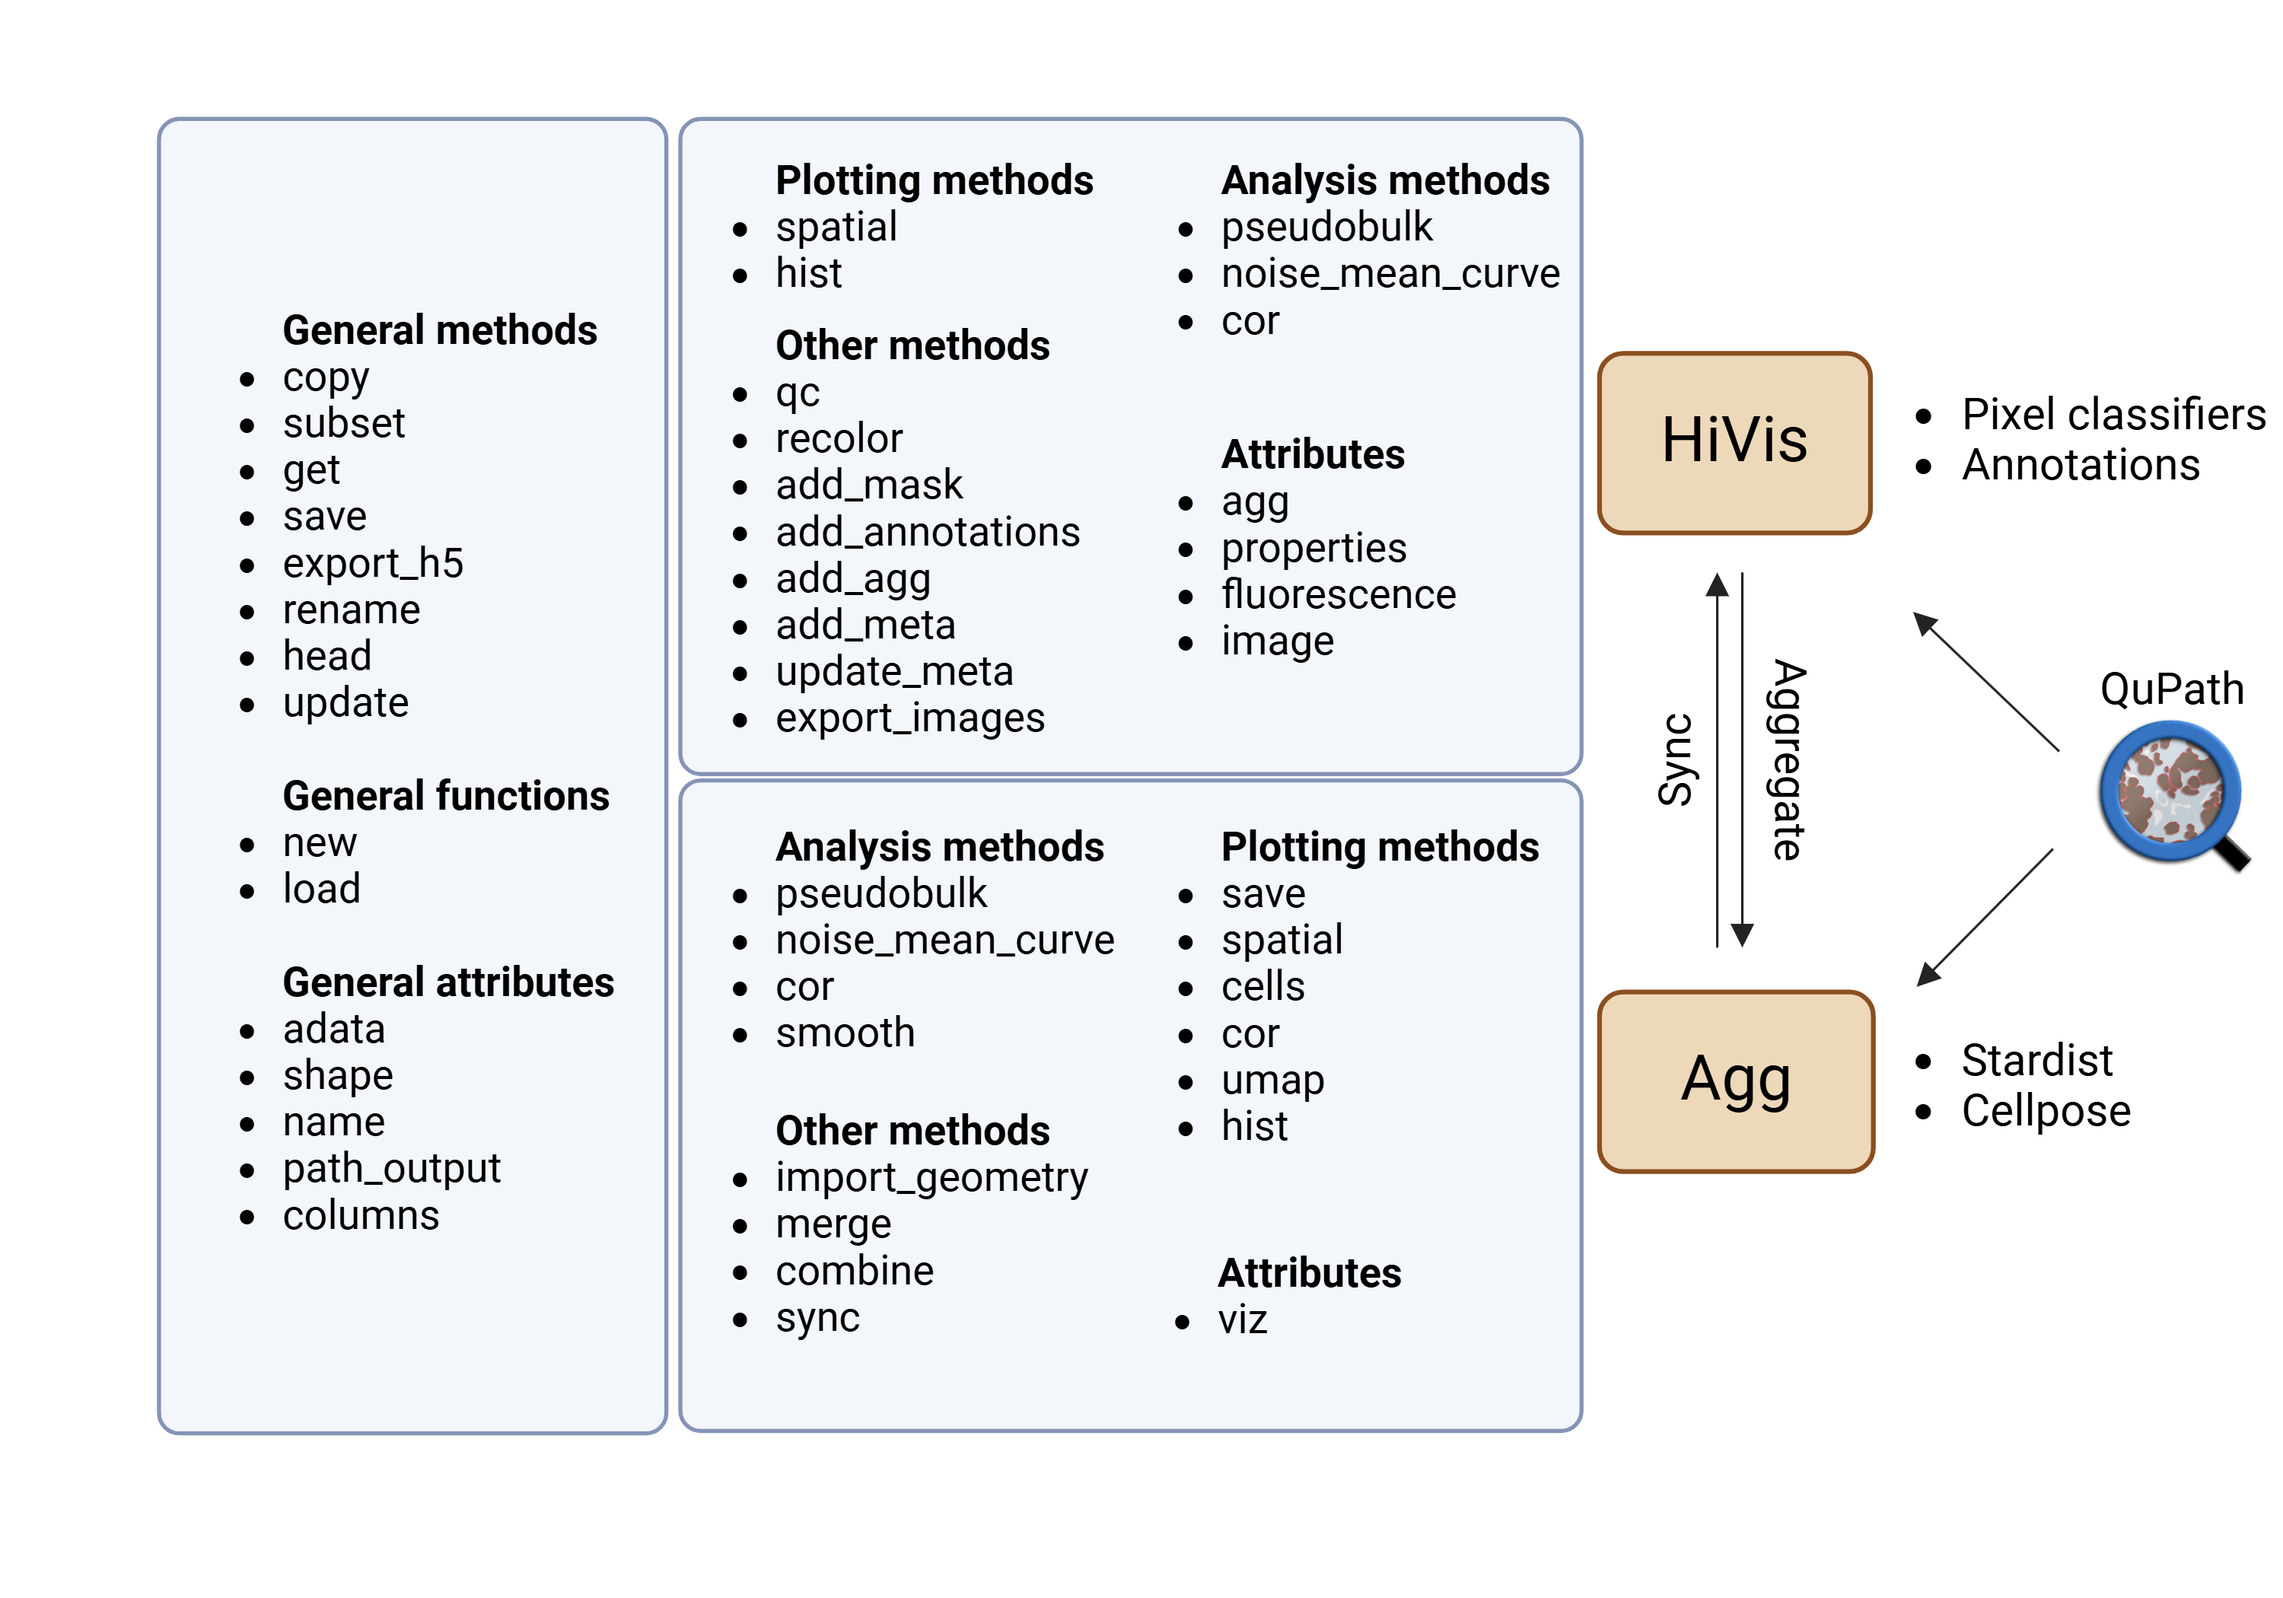
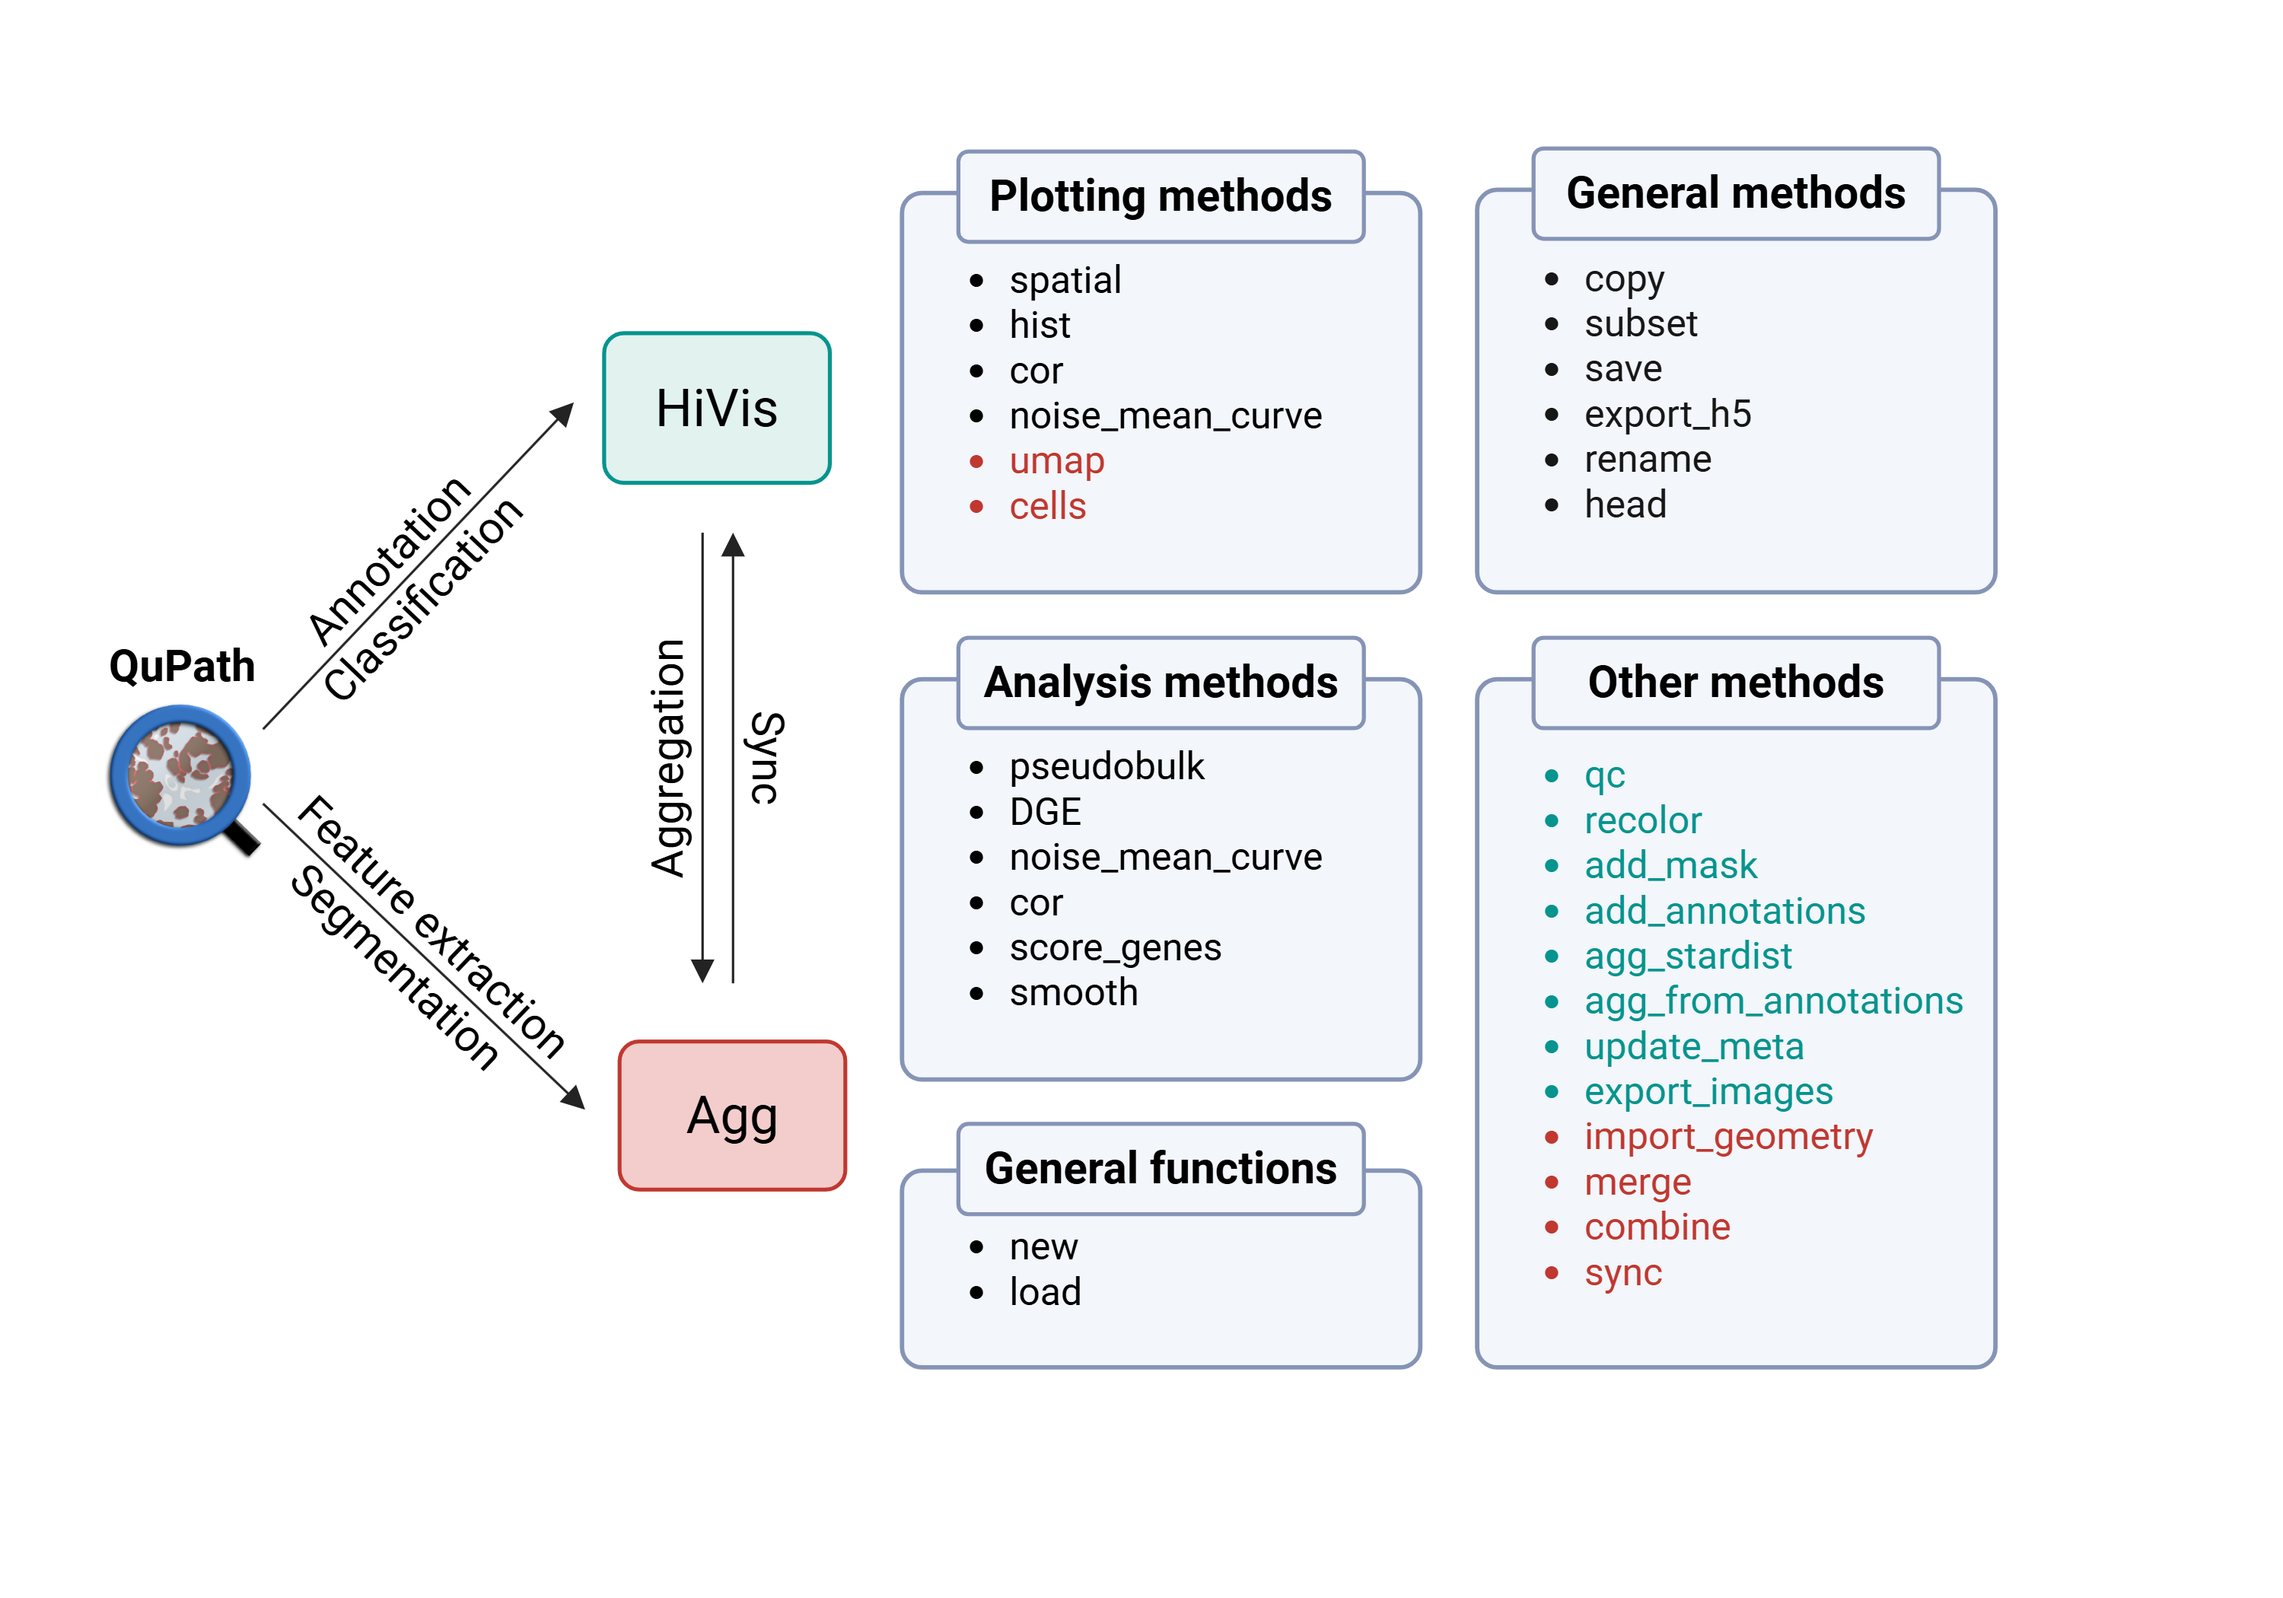
bug fixes and new figure
fixed inplace implementation to drop existing columns
added show_zeros to agg.spatial and agg.cells
new figure diagram

diff --git a/HiVis/HiVis_plot.py b/HiVis/HiVis_plot.py
@@ -555,7 +555,7 @@ class PlotAgg:
     
     def spatial(self, what=None, image=True, img_resolution=None, ax=None, title=None, cmap="winter", layer=None,
                   legend=True, alpha=1, figsize=(8, 8), save=False, size=1,brightness=1,contrast=1,
-                  xlim=None, ylim=None, legend_title=None, axis_labels=True):
+                  xlim=None, ylim=None, legend_title=None, axis_labels=True,show_zeros=False):
         '''
         Plot a spatial representation of self.adata.
         
@@ -592,10 +592,15 @@ class PlotAgg:
                 fig, ax = plt.subplots(figsize=figsize)
             
             values = self.main.get(what, cropped=True,layer=layer)
-            if np.issubdtype(values.dtype, np.number):  # Filter values that are 0
+            if values is None:
+                raise ValueError(f"{what} not found in adata")
+            if np.issubdtype(values.dtype, np.number) and not show_zeros:  # Filter values that are 0
+                if np.all(values == 0):
+                    raise ValueError(f"{what} is equal to zero in the specified xlim,ylim")
                 mask = values != 0
             else:
                 mask = [True for _ in values]   # No need for filtering
+
             values = values[mask]
             x = self.pixel_x[mask]
             y = self.pixel_y[mask]
@@ -651,7 +656,7 @@ class PlotAgg:
             self.save(f"{what}_HIST")
         return ax
     
-    def cells(self, what=None, image=True, img_resolution=None, xlim=None, ylim=None, color_zeros=False,
+    def cells(self, what=None, image=True, img_resolution=None, xlim=None, ylim=None, show_zeros=False,
               figsize=(8, 8), line_color="black",cmap="viridis", alpha=0.7, linewidth=1,save=False,layer=None,
               legend=True, ax=None, title=None, legend_title=None, brightness=1,contrast=1,axis_labels=True):
         '''
@@ -697,15 +702,16 @@ class PlotAgg:
         
         if what: 
             values = self.main.get(what, cropped=True, geometry=True,layer=layer) 
-            if not color_zeros:
-                values[values==0] = np.nan
             if values is None:
-                raise KeyError(f"No values in [{what}]")
-            # if len(values) != len(self.main.adata_cropped):
-            #     raise ValueError("Can only plot OBS or gene expression")
-            self.geometry["temp"] = values
-            
+                raise ValueError(f"{what} not found in adata")
             if np.issubdtype(values.dtype, np.number):
+                if not show_zeros:
+                    values[values==0] = np.nan
+                if values is None:
+                    raise KeyError(f"No values in [{what}]")
+                # if len(values) != len(self.main.adata_cropped):
+                #     raise ValueError("Can only plot OBS or gene expression")
+                self.geometry["temp"] = values
                 if isinstance(cmap, str):
                     cmap_obj = colormaps.get_cmap(cmap)
                 elif isinstance(cmap, list):
@@ -718,6 +724,7 @@ class PlotAgg:
                     cbar = plt.colorbar(sm, ax=ax, shrink=0.6)
                     cbar.set_label(legend_title)
             else: # Categorical case
+                self.geometry["temp"] = values
                 unique_values = np.unique(values.astype(str))
                 unique_values = unique_values[unique_values != 'nan']
                 if isinstance(cmap, (str,list)):

diff --git a/HiVis/HiVis.py b/HiVis/HiVis.py
@@ -355,7 +355,7 @@ class HiVis:
         '''
         alternative = "two-sided" if two_sided else "greater"
         df = HiVis_utils.dge(self.adata, column, group1, group2, umi_thresh,layer=layer,
-                     method=method, alternative=alternative, inplace=inplace)
+                     method=method, alternative=alternative)
         if group2 is None:
             group2 = "rest"
         df = df[[f"pval_{column}",f"log2fc_{column}",group1,group2]]
@@ -383,6 +383,7 @@ class HiVis:
                 "expression_max":f"expression_max_{column}",
                 },inplace=True)
             del var["gene"]
+            self.adata.var.drop(columns=var.columns,inplace=True)
             self.adata.var = self.adata.var.join(var, how="left")
         return df
     

diff --git a/HiVis/HiVis_utils.py b/HiVis/HiVis_utils.py
@@ -234,6 +234,7 @@ def dge(adata, column, group1, group2=None, umi_thresh=0,layer=None,
         df.loc[gene, f"pval_{column}"] = p_value
 
     if inplace:
+        adata.var.drop(columns=df.columns,inplace=True)
         adata.var = adata.var.join(df, how="left")
 
     return df
